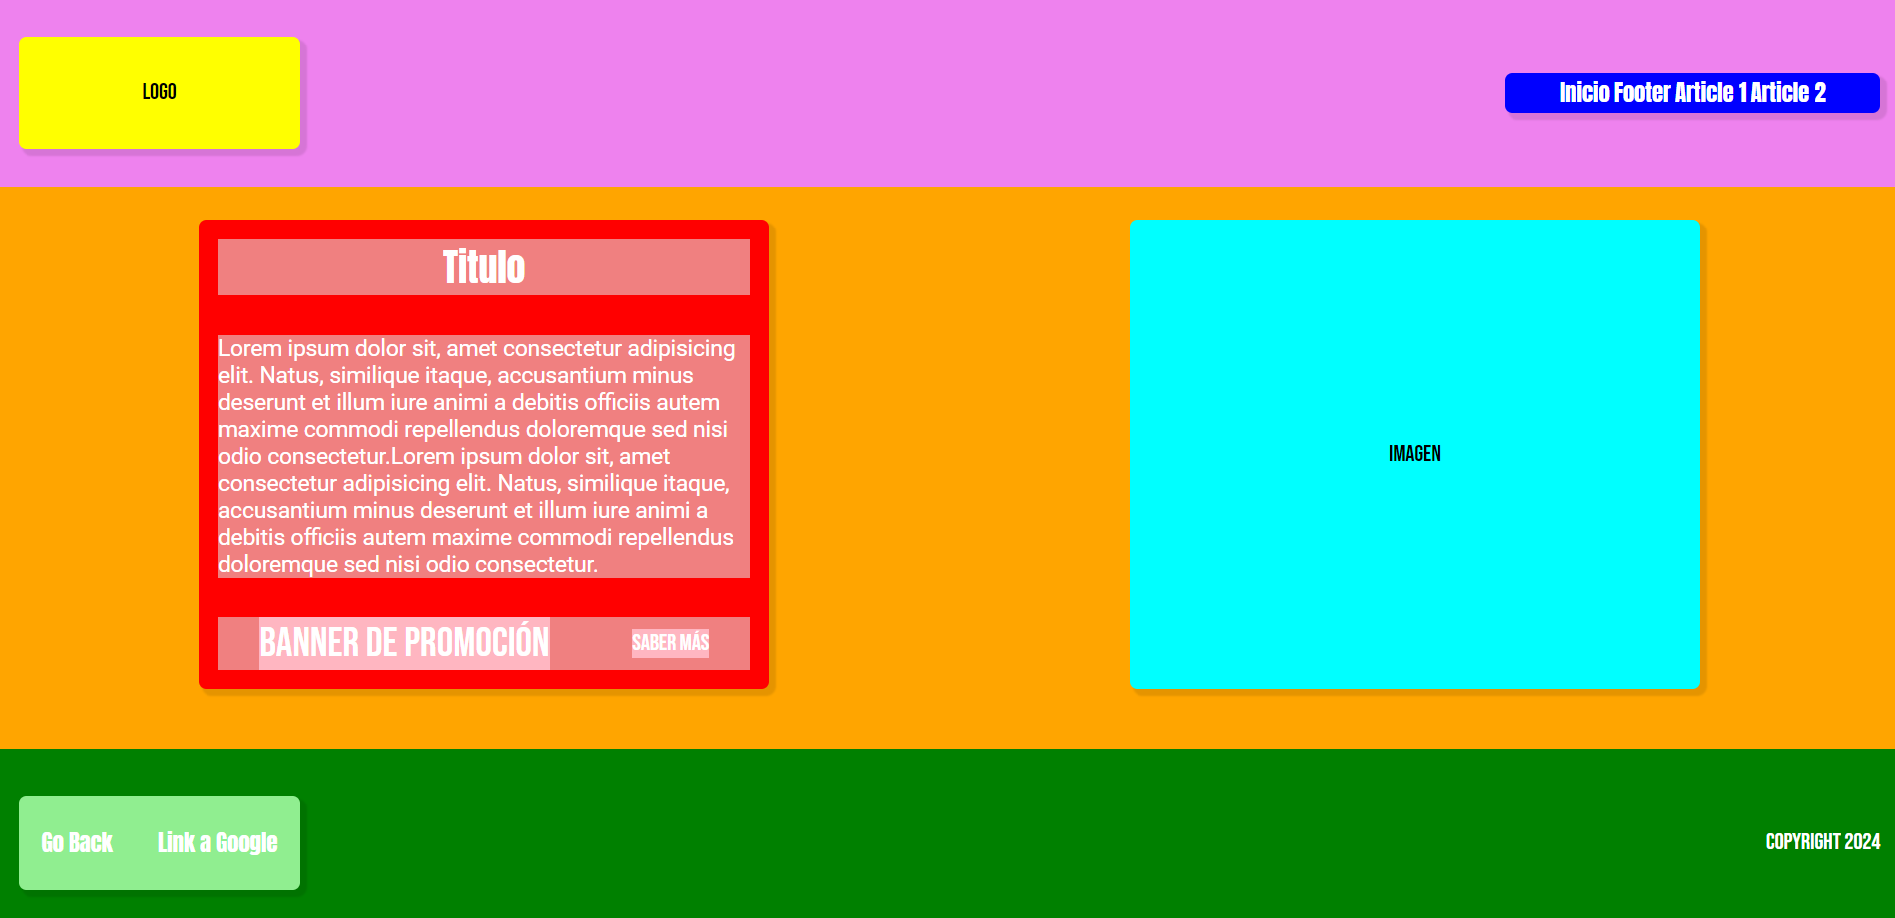
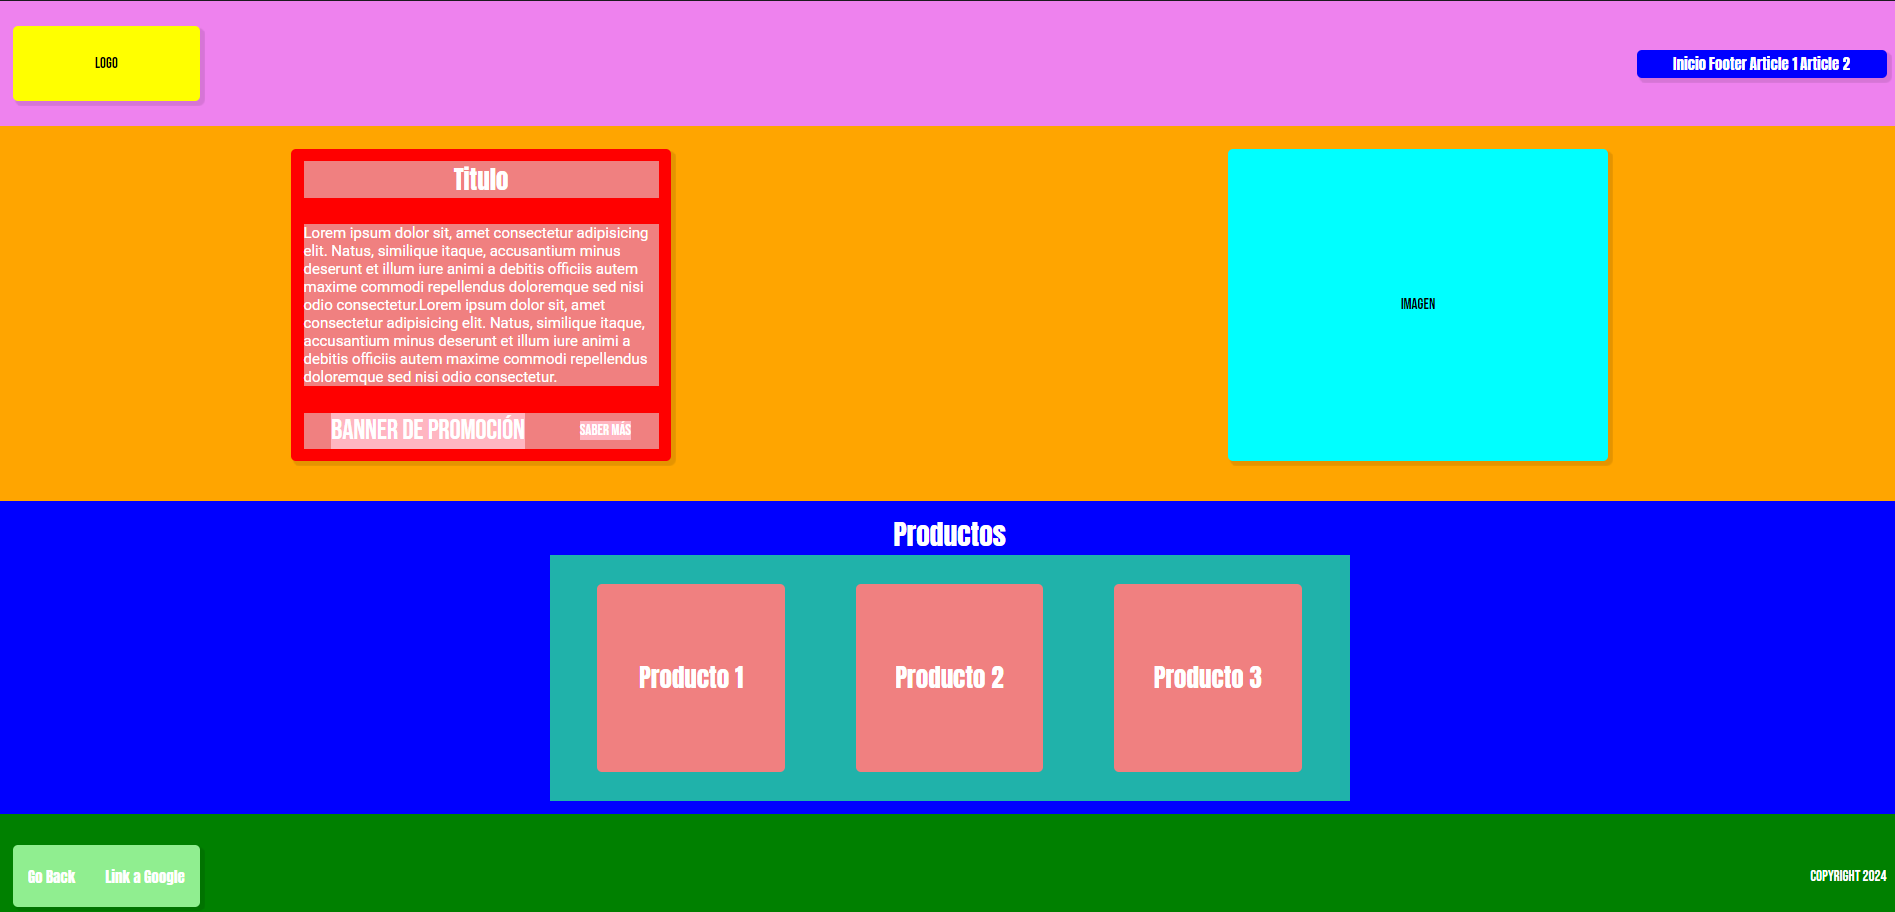
Modificacion de Codigo HTML y CSS

diff --git a/Proyecto 3 Landing de Negocio/style.css b/Proyecto 3 Landing de Negocio/style.css
@@ -120,6 +120,62 @@
     box-sizing: border-box;          
   }
 
+  .prodbox {
+    display: flex;
+    flex-direction: column;
+    justify-content: space-around;
+    align-items: center;
+    background-color: blue;
+    height: 500px;
+    padding: 20px;
+    border: none;
+    box-sizing: border-box;          
+  }
+
+  .titleprod {
+    font-family: "Anton", sans-serif;
+    font-size: 44px;
+    transition: color 0.3s ease;
+    color:white;
+    text-decoration: none;
+  }
+
+  .prodcontainer{
+    display: flex;
+    justify-content: space-around;
+    align-items: center;
+    background-color: lightseagreen;
+    width: 80rem;
+    height: 500px;
+    padding: 20px;
+    border: none;
+    box-sizing: border-box;
+  }
+
+  .productos{
+    display: flex;
+    justify-content: center;
+    align-items: center;
+    background-color: lightcoral;
+    font-family: "Anton", sans-serif;
+    font-size: 40px;
+    color: white;
+    width: 300px;
+    height: 300px;
+    padding: 20px;
+    border: none;
+    box-sizing: border-box;
+    transition: box-shadow 0.3s ease;
+    margin: 1rem 0rem;
+    border-radius: 0.5rem;
+    padding: 0.25rem 0rem;
+    cursor: pointer;
+  }
+
+  .productos:hover {
+    box-shadow: 0 0.1rem 0.4rem rgba(0,0,0,0.3);
+  }
+
   .firstpara {
     display: flex;
     flex-flow: column wrap;
@@ -311,20 +367,35 @@ section {
         height: 700px;
     }
 
+    .prodbox {
+      height: 700px;
+      padding: 20px;
+      border: none;
+      box-sizing: border-box;          
+    }
+  
+    .titleprod {
+      font-size: 24px;
+    }
+  
+    .prodcontainer{
+      flex-direction: column;
+      width: 30rem;
+      height: 600px;
+     
+    }
+  
+    .productos{
+      font-size: 20px;
+      color: white;
+      width: 150px;
+      height: 150px;
+    }
+
     .footerbox {
-        display: flex;
-        justify-content: space-between;
-        align-items: center;
-        background-color: green;
         height: 200px;
         padding: 20px;
-        border: none;
-        box-sizing: border-box;
-        font-family: "Bebas Neue", sans-serif;
         font-size: 24px;
-        transition: color 0.3s ease;
-        color:white;
-        text-decoration: none          
       
     }
     section {

diff --git a/Proyecto 3 Landing de Negocio/landing.html b/Proyecto 3 Landing de Negocio/landing.html
@@ -29,9 +29,19 @@
 				<div class="fpicon"><a href="http://www.google.cl">Saber Más</a></div>
 			</div>
 		</div>
-		<div id="art2" class="secondpara">
+		<div class="secondpara">
 			<div class="spimage">Imagen</div>
 		</div>
+	</div>
+
+	<div class="prodbox">
+		<div id="art2" class="titleprod">Productos</div>
+		<div class="prodcontainer">
+			<div class="productos">Producto 1</div>
+			<div class="productos">Producto 2</div>
+			<div class="productos">Producto 3</div>
+		</div>
+
 	</div>
 
 	<footer id="footer" class="footerbox">
